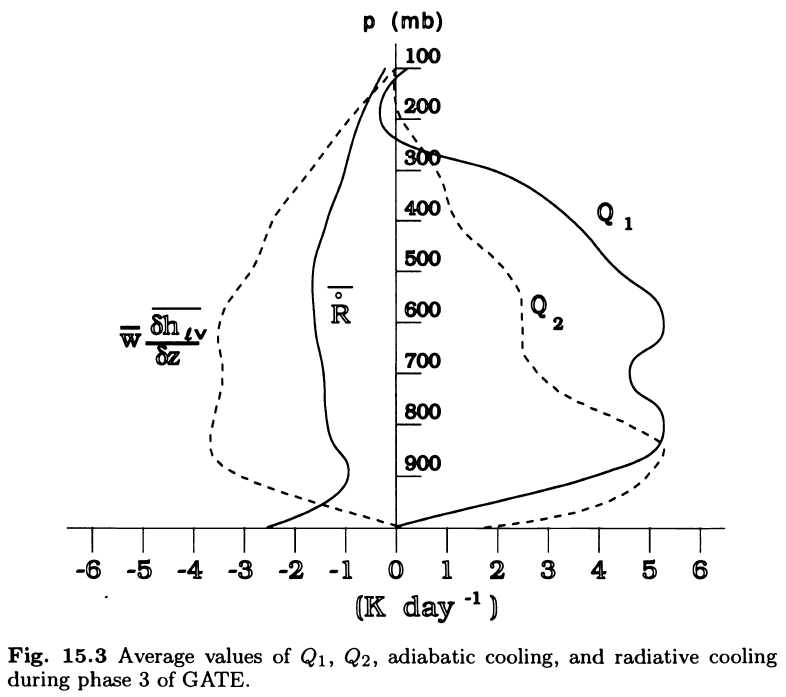
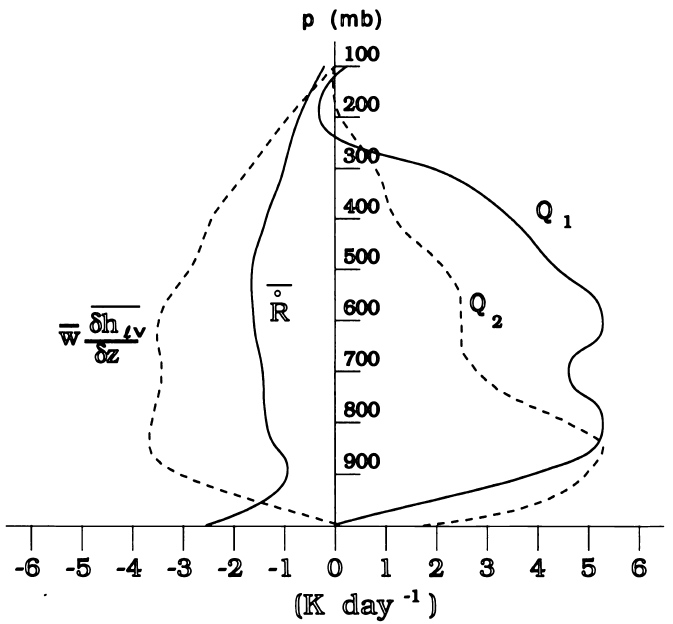
update README

diff --git a/apparent_eqn/README.md b/apparent_eqn/README.md
@@ -12,17 +12,17 @@ $ ncl apparent_plot.ncl     # Draw result
 ```  
   
 ## Theoretical framework
-* Fueglistaler et al., (2009) - QJR
-![Apparent_heat_source](http://www.sciweavers.org/tex2img.php?eq=%5Cfrac%20%7B%20%5Cpartial%20T%20%7D%7B%20%5Cpartial%20t%20%7D%20%5Cquad%20%2B%5Cquad%20v%5Ccdot%20gradT%5Cquad%20-%5Cquad%20%5Comega%20%5Cleft%28%20%5Cfrac%20%7B%20%5Ckappa%20T%20%7D%7B%20p%20%7D%20-%5Cfrac%20%7B%20%5Cpartial%20T%20%7D%7B%20%5Cpartial%20p%20%7D%20%20%5Cright%29%20%5Cquad%20%3D%5Cquad%20%5Cfrac%20%7B%20Q%20%7D%7B%20%7B%20c%20%7D_%7B%20p%20%7D%20%7D%20&bc=White&fc=Black&im=jpg&fs=12&ff=arev&edit=0)
-
-* Lee et al., (2008) - JMSJ
-![Apparent_moisgure_sink]()
-
-
+* Fueglistaler et al., (2009) - QJR  
+![Apparent_heat_source](/images/apparent_eq1.png)  
+> <p align="center"><img width="75%" src="/images/apparent.png" /></p>
+  
+* Lee et al., (2008) - JMSJ  
+![Apparent_moisgure_sink](/images/apparent_eq2.png)  
 (Q1: Apparent heat source [J/kg/s], Q2: Apparent moisture sink [K/s])
 
-<p align="center"><img width="50%" src="/images/apparent.png" /></p>
-![apparent_reuslt](/images/apparent.png)   <!-- refer to Emanuel (1994) pp 501 -->
+<!-- refer to Emanuel (1994) pp 501 -->
+<p align="center"><img width="75%" src="/images/apparent.png" /></p>
+<center>Fig. 15.3 Averge values of Q1, Q2, adiabatic cooling, and radiative cooling during phase 3 of GATE.</center>
 
   
 ## Reference
